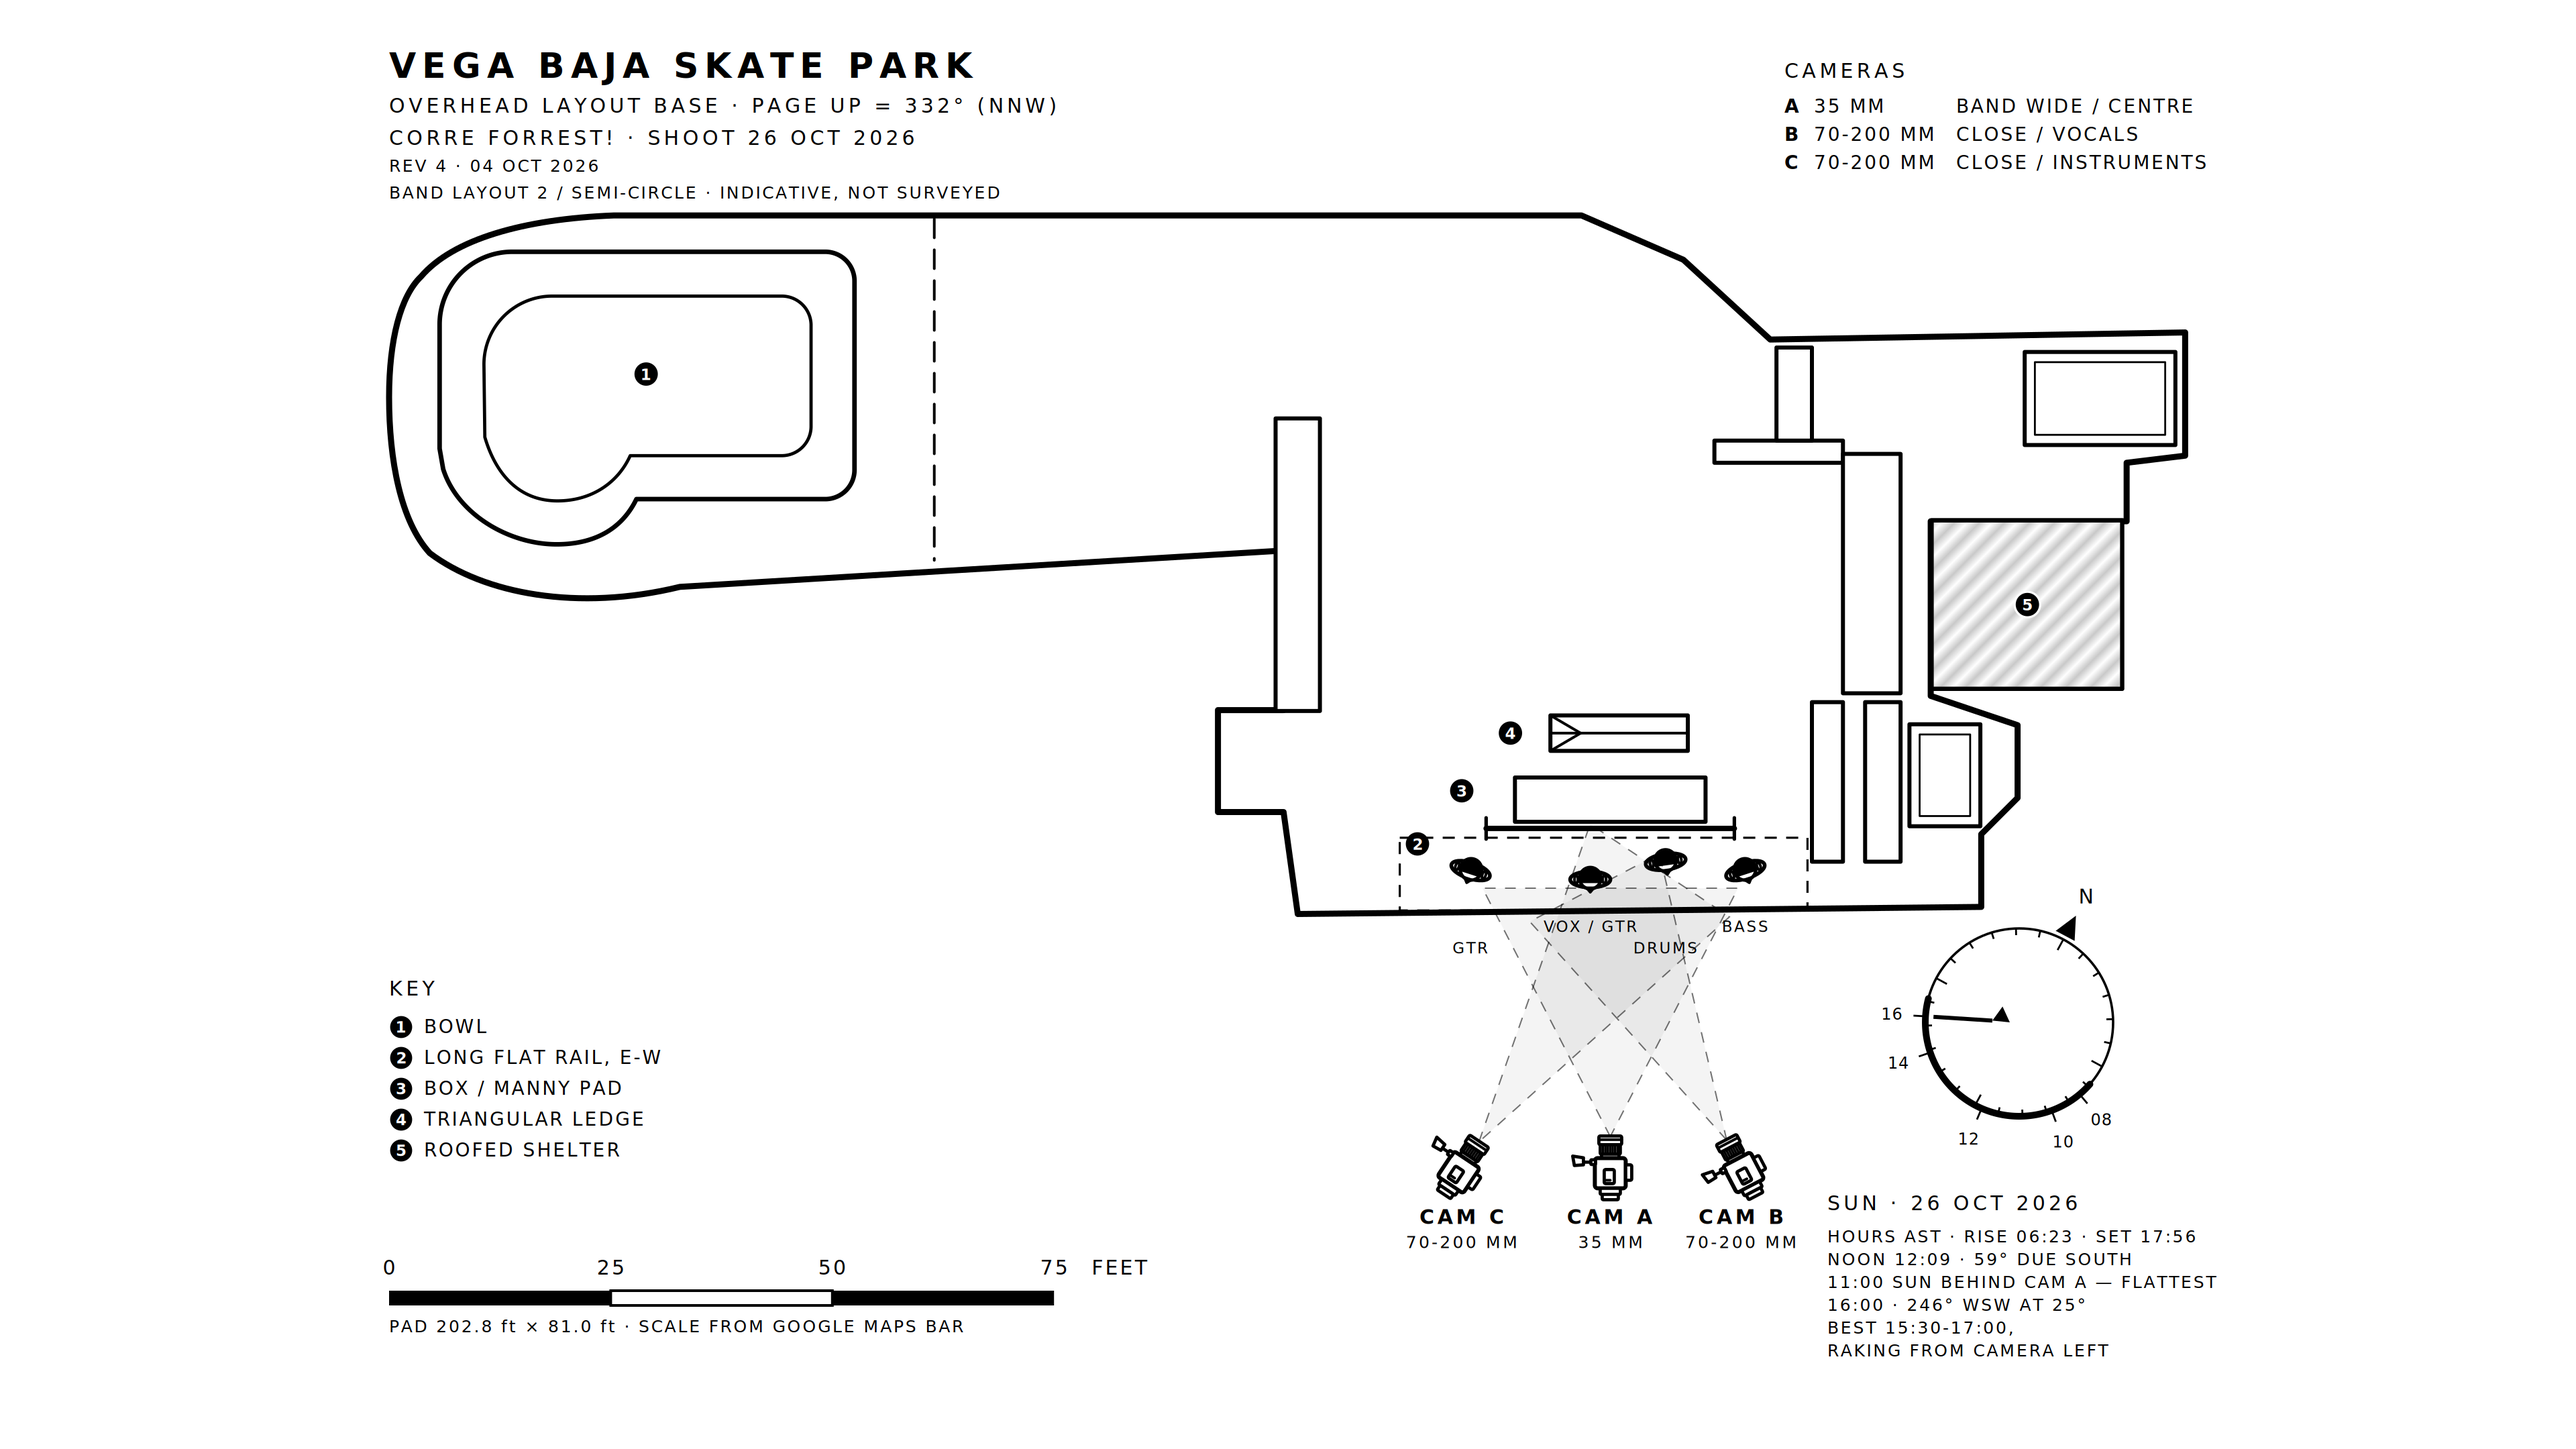
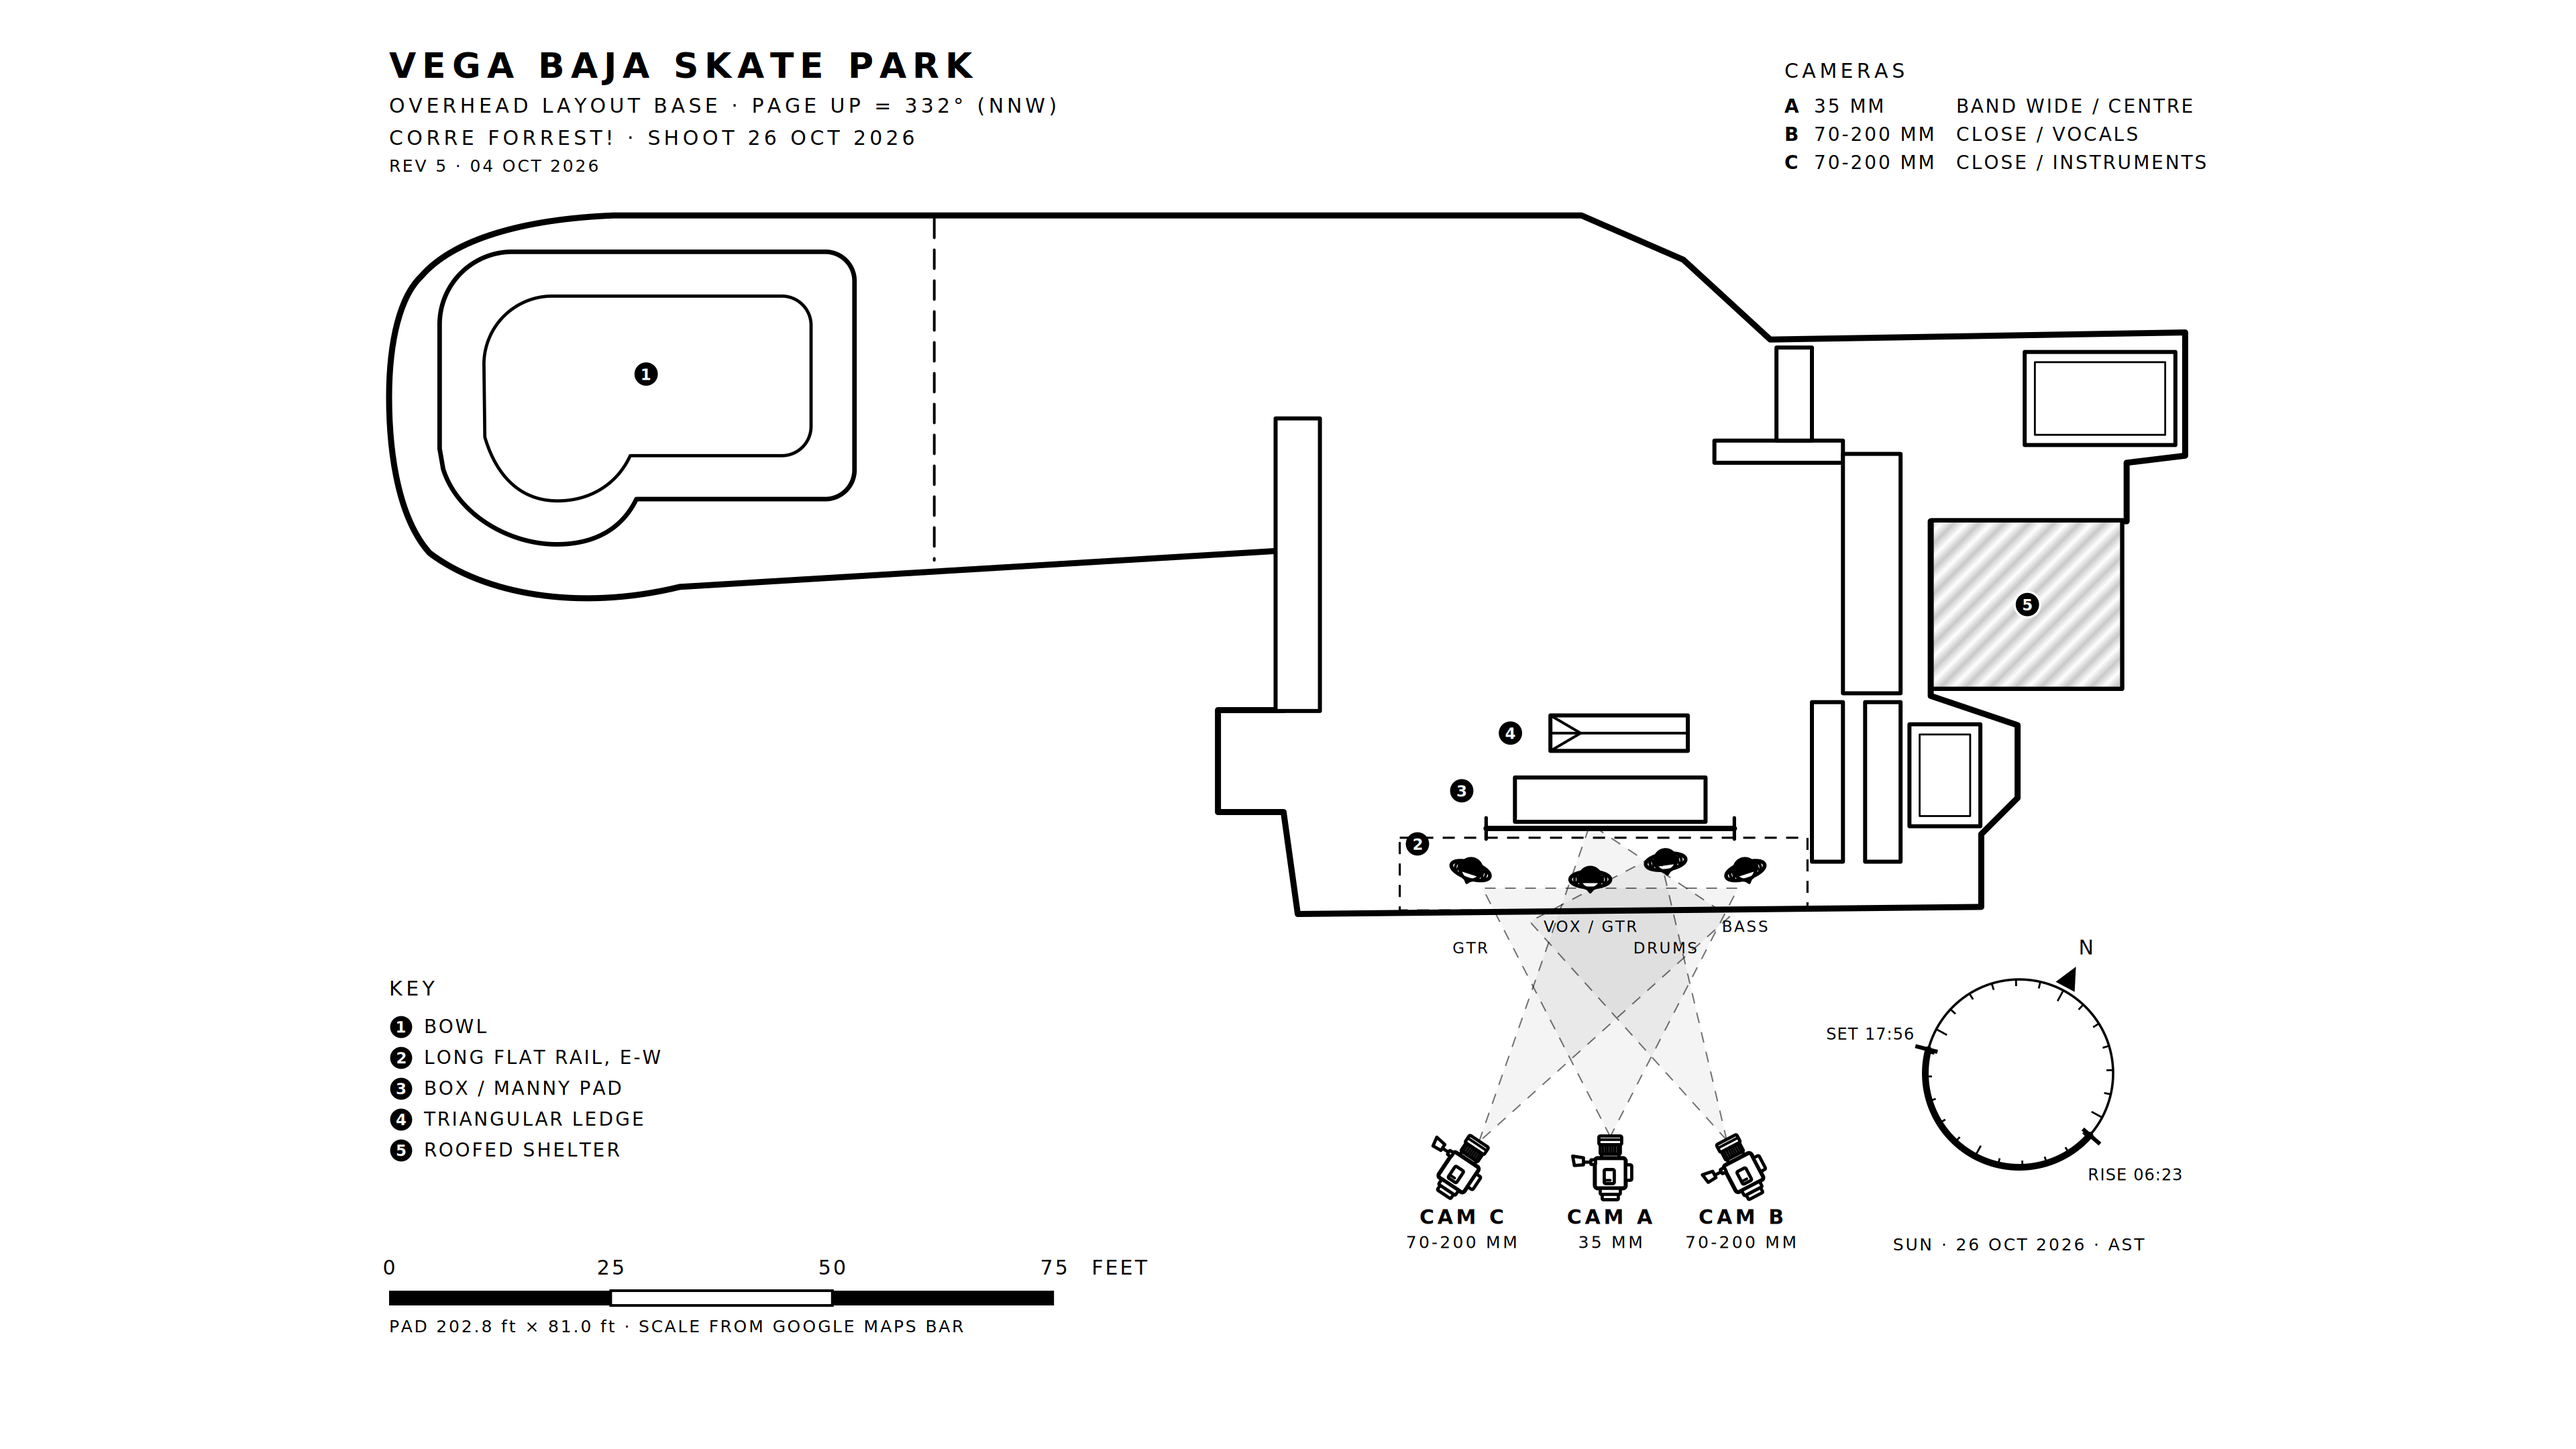
Trim the sun block to sunrise and sunset, drop the band layout line
Verified the ephemeris against an outside figure of sunset 5:56 pm at
256.92 degrees: this model gives 17:56 at 256.915, a 0.005 degree delta with
the time matching to the minute. Rev 3's lighting error was the page
orientation, not the solar maths.

- The dial now carries true north plus the sun's track from sunrise to sunset,
  both ends labelled with their times. Hour ticks, the light-direction arrow
  and the multi-line sun note are gone from the sheet.
- The camera-relative angle calculation moved to sun.py, where the CLI prints
  the full half-hourly table against Cam A's 332 degree look direction. The
  detail lives there and in the README instead of on the plate.
- Band layout caption removed from the title block.
- Revision bumped to 5.

Claude-Session: https://claude.ai/code/session_01BMGcMPgBmr5nXr4ZZqT4UN

diff --git a/skatepark/final.py b/skatepark/final.py
@@ -171,31 +171,20 @@ def sundial(ox, oy, r=76):
     # sun's track across the sky, sunrise bearing to sunset bearing
     a0, b0 = pt(az_r, r); a1, b1 = pt(az_s, r)
     o.append(f'<path class="sunarc" d="M {a0:.1f},{b0:.1f} A {r},{r} 0 0 1 {a1:.1f},{b1:.1f}"/>')
-    for hh in (8, 10, 12, 14, 16):
-        az, el, _, _ = SUN.solar(y_, mo, d, hh)
-        a, b = pt(az, r); c, e = pt(az, r + 9); tx_, ty_ = pt(az, r + 25)
-        o.append(f'<line class="dialtick" x1="{a:.1f}" y1="{b:.1f}" x2="{c:.1f}" y2="{e:.1f}"/>')
-        o.append(f'<text x="{tx_:.1f}" y="{ty_+4:.1f}" class="dialnum" text-anchor="middle">{hh:02d}</text>')
-    # light direction at the recommended hour: from the sun's bearing in to centre
-    az, el, _, _ = SUN.solar(y_, mo, d, 16.0)
-    a, b = pt(az, r - 6); c, e = pt(az, 20)
-    o.append(f'<line class="sunray" x1="{a:.1f}" y1="{b:.1f}" x2="{c:.1f}" y2="{e:.1f}"/>')
-    o.append(f'<polygon class="sunhead" points="{c:.1f},{e:.1f} '
-             f'{c + math.sin(math.radians(az+150))*13:.1f},{e - math.cos(math.radians(az+150))*13:.1f} '
-             f'{c + math.sin(math.radians(az-150))*13:.1f},{e - math.cos(math.radians(az-150))*13:.1f}"/>')
+    for az, lbl in ((az_r, f'RISE {SUN.hm(rise)}'), (az_s, f'SET {SUN.hm(sett)}')):
+        a, b = pt(az, r - 7); c, e = pt(az, r + 10); tx_, ty_ = pt(az, r + 45)
+        o.append(f'<line class="sunray" x1="{a:.1f}" y1="{b:.1f}" x2="{c:.1f}" y2="{e:.1f}"/>')
+        o.append(f'<text x="{tx_:.1f}" y="{ty_+4:.1f}" class="dialnum" text-anchor="middle">{lbl}</text>')
     tip = pt(0, r + 20); mid = pt(0, r + 3)
     na = math.radians(-G.UP_BEARING); px_, py_ = math.cos(na), math.sin(na)
     o.append(f'<path class="narrow" d="M {tip[0]:.1f},{tip[1]:.1f} '
              f'L {mid[0]+px_*8:.1f},{mid[1]+py_*8:.1f} L {mid[0]-px_*8:.1f},{mid[1]-py_*8:.1f} Z"/>')
     lab = pt(0, r + 36)
     o.append(f'<text x="{lab[0]:.1f}" y="{lab[1]+5:.1f}" class="tick" text-anchor="middle">N</text>')
+    o.append(f'<text x="{ox}" y="{oy+r+62}" class="note" text-anchor="middle">'
+             f'SUN &#183; {G.SHOOT} &#183; AST</text>')
     o.append('</g>')
     return "\n    ".join(o), rise, noon, sett
-
-def rel_to_camera(az):
-    """Signed angle from the camera's look direction; + is camera right,
-    +/-180 is straight behind the camera (flat frontal light on the band)."""
-    return ((az - G.CAM_BEARING + 180) % 360) - 180
 
 def sunnotes(x, y, rise, noon, sett):
     el_noon = SUN.solar(*SUN.DATE, noon)[1]
@@ -218,8 +207,7 @@ def sunnotes(x, y, rise, noon, sett):
 
 # ------------------------------------------------------------------ furniture
 def titleblock(x, y, show_band=False):
-    extra = (f'<text x="0" y="90" class="note">BAND LAYOUT 2 / SEMI-CIRCLE &#183; INDICATIVE, NOT SURVEYED</text>'
-             if show_band else '')
+    extra = ''
     return "\n    ".join([f'<g transform="translate({x},{y})">',
         f'<text x="0" y="0"  class="title">{G.PROJECT}</text>',
         f'<text x="0" y="26" class="sub">{G.SUBTITLE}</text>',
@@ -302,7 +290,7 @@ def svg(transparent=False, annotate=True, grid=False, cams=True, show_band=False
     bg = '' if transparent else f'<rect width="{W}" height="{H}" fill="#fff"/>'
     anno = ''
     if annotate:
-        dial, rise, noon, sett = sundial(1505, 762, 70)
+        dial, rise, noon, sett = sundial(1505, 800, 70)
         anno = f'''
   <g id="annotation">
     {titleblock(MARGIN_X, 58, show_band)}
@@ -310,7 +298,6 @@ def svg(transparent=False, annotate=True, grid=False, cams=True, show_band=False
     {keylegend(MARGIN_X, 742)}
     {scalebar(MARGIN_X, 962)}
     {dial}
-    {sunnotes(1362, 902, rise, noon, sett)}
   </g>'''
     return f'''<svg xmlns="http://www.w3.org/2000/svg" width="{W}" height="{H}" viewBox="0 0 {W} {H}">
   <title>{G.PROJECT} - overhead layout, {G.BAND_NAME}, {G.SHOOT}</title>

diff --git a/skatepark/sun.py b/skatepark/sun.py
@@ -63,6 +63,14 @@ def _event(y, mo, d, rising):
     noon = (720 - 4*LON - eot)/60 + TZ
     return noon - ha/15 if rising else noon + ha/15, noon
 
+CAM_BEARING = 332.0        # the plan's page-up bearing; cameras look up the page
+
+def rel_to_camera(az, look=CAM_BEARING):
+    """Signed angle from the camera's look direction. 0 = straight into the
+    lens (back light), +/-180 = straight behind the camera (flat frontal light
+    on the band), + = camera right, - = camera left."""
+    return ((az - look + 180) % 360) - 180
+
 def hm(h):
     h = h % 24
     return f"{int(h):02d}:{int(round((h-int(h))*60)):02d}"
@@ -76,10 +84,17 @@ if __name__ == "__main__":
     az, el, _, decl = solar(y, mo, d, noon)
     print(f"  declination {decl:+.2f} deg ; noon altitude {el:.1f} deg at azimuth {az:.1f}")
     print()
-    print("  time    azimuth   altitude   light travels toward   relative to Cam A (looking N)")
+    azr = solar(y, mo, d, rise)[0]; azs = solar(y, mo, d, sett)[0]
+    print(f"  sunrise bearing {azr:.2f} ; sunset bearing {azs:.2f}")
+    print()
+    print(f"  Cam A looks at {CAM_BEARING:.0f} deg (page up).")
+    print("  time    azimuth  altitude     rel   reading")
     for h in [x/2 for x in range(12, 37)]:
         az, el, _, _ = solar(y, mo, d, h)
         if el < -0.5: continue
-        shadow = (az + 180) % 360
-        side = 'BEHIND CAM (frontal)' if 135 < az < 225 else ('CAMERA LEFT' if az < 180 else 'CAMERA RIGHT')
-        print(f"  {hm(h)}   {az:6.1f}    {el:5.1f}      {shadow:6.1f}              {side}")
+        r = rel_to_camera(az)
+        if   abs(r) > 150: side = 'straight behind camera, flat frontal'
+        elif abs(r) > 110: side = 'behind-' + ('right' if r > 0 else 'left')
+        elif abs(r) >  70: side = 'camera ' + ('RIGHT' if r > 0 else 'LEFT') + ', side'
+        else:              side = 'front-' + ('right' if r > 0 else 'left') + ', back light'
+        print(f"  {hm(h)}   {az:6.1f}   {el:6.1f}  {r:+7.1f}   {side}")

diff --git a/skatepark/geom.py b/skatepark/geom.py
@@ -105,7 +105,7 @@ CAMERAS = [
 PROJECT   = 'VEGA BAJA SKATE PARK'
 SUBTITLE  = 'OVERHEAD LAYOUT BASE \u00b7 PAGE UP = 332\u00b0 (NNW)'
 SHOOT     = '26 OCT 2026'
-REV       = 'REV 4 \u00b7 04 OCT 2026'
+REV       = 'REV 5 \u00b7 04 OCT 2026'
 SITE      = '18.445\u00b0N 66.388\u00b0W \u00b7 AST (UTC-4)'
 
 # The pad is not square to the compass. Measured by rotating the trace frame to

diff --git a/skatepark/README.md b/skatepark/README.md
@@ -1,6 +1,6 @@
 # Vega Baja Skate Park — overhead layout sheet
 
-**CORRE FORREST! · shoot 26 Oct 2026 · Rev 4**
+**CORRE FORREST! · shoot 26 Oct 2026 · Rev 5**
 
 Black-and-white overhead sheet for production layouts. 16:9, white ground,
 black linework. All units are feet.
@@ -46,11 +46,21 @@ page, so it looks at 332°, not 0°.
 
 NOAA solar position (`sun.py`). No DST in Puerto Rico.
 
-**Sunrise 06:23 · solar noon 12:09 at 59.0° due south · sunset 17:56.**
+**Sunrise 06:23 at bearing 102.93° · solar noon 12:09 at 59.0° due south ·
+sunset 17:56 at bearing 256.92°.**
 
-`rel` below is the angle from Cam A's look direction: 0° is straight into the
-lens (back light), ±180° is straight behind the camera (flat frontal light on
-the band), + is camera right, − is camera left.
+Independently checked: an outside source gives sunset 5:56 pm at 256.92°.
+This model gives 17:56 at **256.915°** — 0.005° apart, and the time matches to
+the minute. The ephemeris was never the problem; Rev 3's error was the page
+orientation.
+
+**The sheet now shows only sunrise and sunset**, as a track arc on the dial with
+both ends labelled. Everything else below lives here and in `sun.py`, not on the
+plate.
+
+`rel` is the angle from Cam A's look direction (332°): 0° is straight into the
+lens, ±180° is straight behind the camera — flat frontal light on the band —
+and + is camera right, − camera left.
 
 | Time | Azimuth | Altitude | rel | Reading |
 |---|---|---|---|---|
@@ -65,23 +75,18 @@ the band), + is camera right, − is camera left.
 | 16:00 | 246° | 25° | −86° | camera left, raking |
 | 17:00 | 252° | 12° | −80° | camera left, edging to 3/4 back |
 
-**Correction to Rev 3.** Rev 3 said the afternoon rakes from camera *right* and
-that the flat moment was solar noon. Both were wrong — they assumed page up was
-north. With the real 332° bearing, the afternoon rakes from **camera left**, and
-the flattest moment is **about 11:00**, not 12:09.
-
 **Avoid roughly 10:00–12:30.** The sun is within 25° of straight behind Cam A at
 46–59° altitude. Flat frontal light from high up; everyone is in caps and the
 brims will black out eyes.
 
 **Best 15:30–17:00.** Sun WSW, 32° down to 12°, within a few degrees of true
 side light from camera left. 15:30 is a clean 90° side; by 17:00 it has edged
-8–10° forward of the camera plane, so it starts giving rim down the band's
-right side. That is the most flattering part of the window.
+8–10° forward of the camera plane and starts rimming down the band's right side.
 
 Still to check on a scout: large trees west and north-west will throw long
-shadows across the performance area at 12–25° altitude, which could eat the back
-of that window. Not measurable from imagery.
+shadows across the performance area at 12–25° altitude.
+
+Run `python3 sun.py` for the full half-hourly table.
 
 ## Cameras
 
